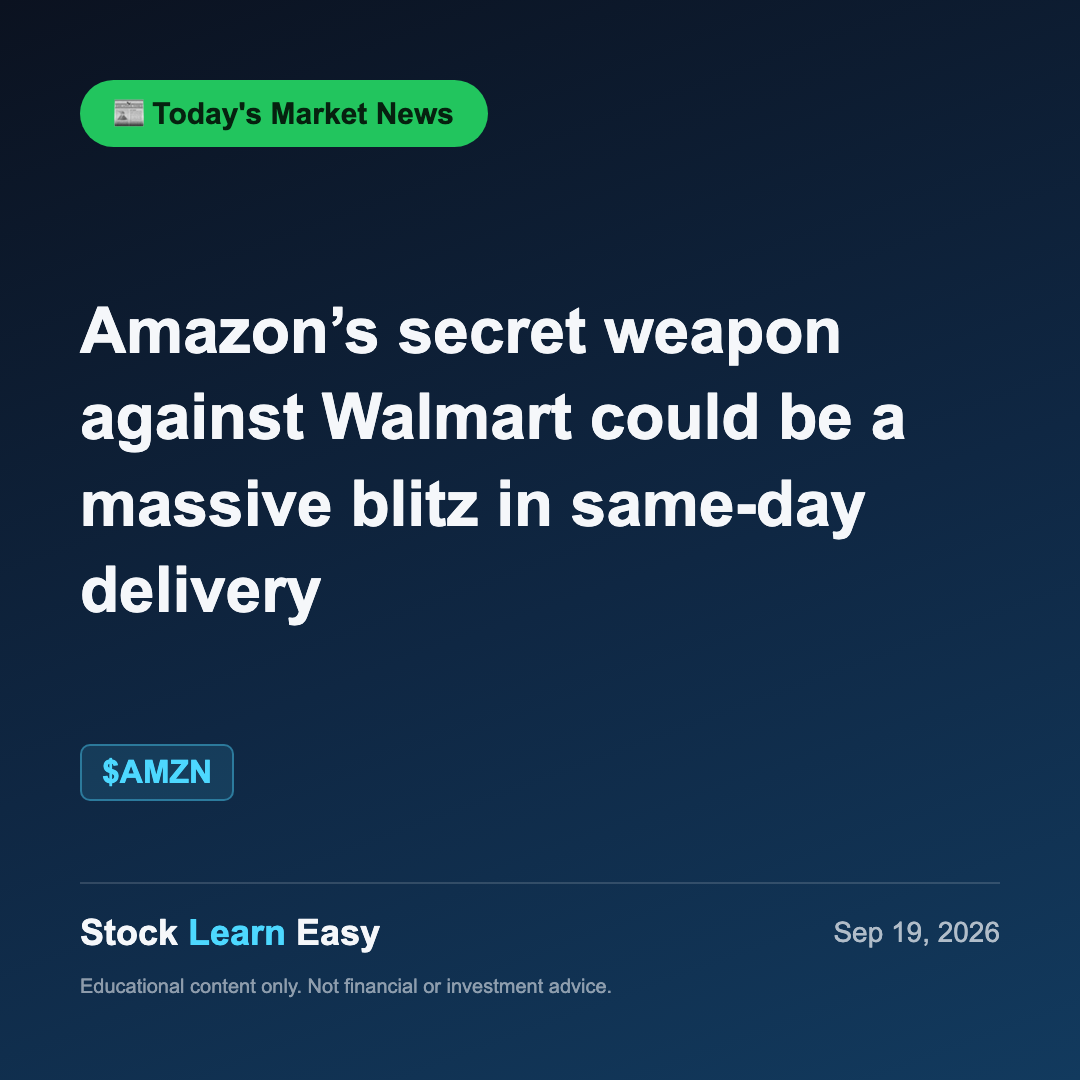
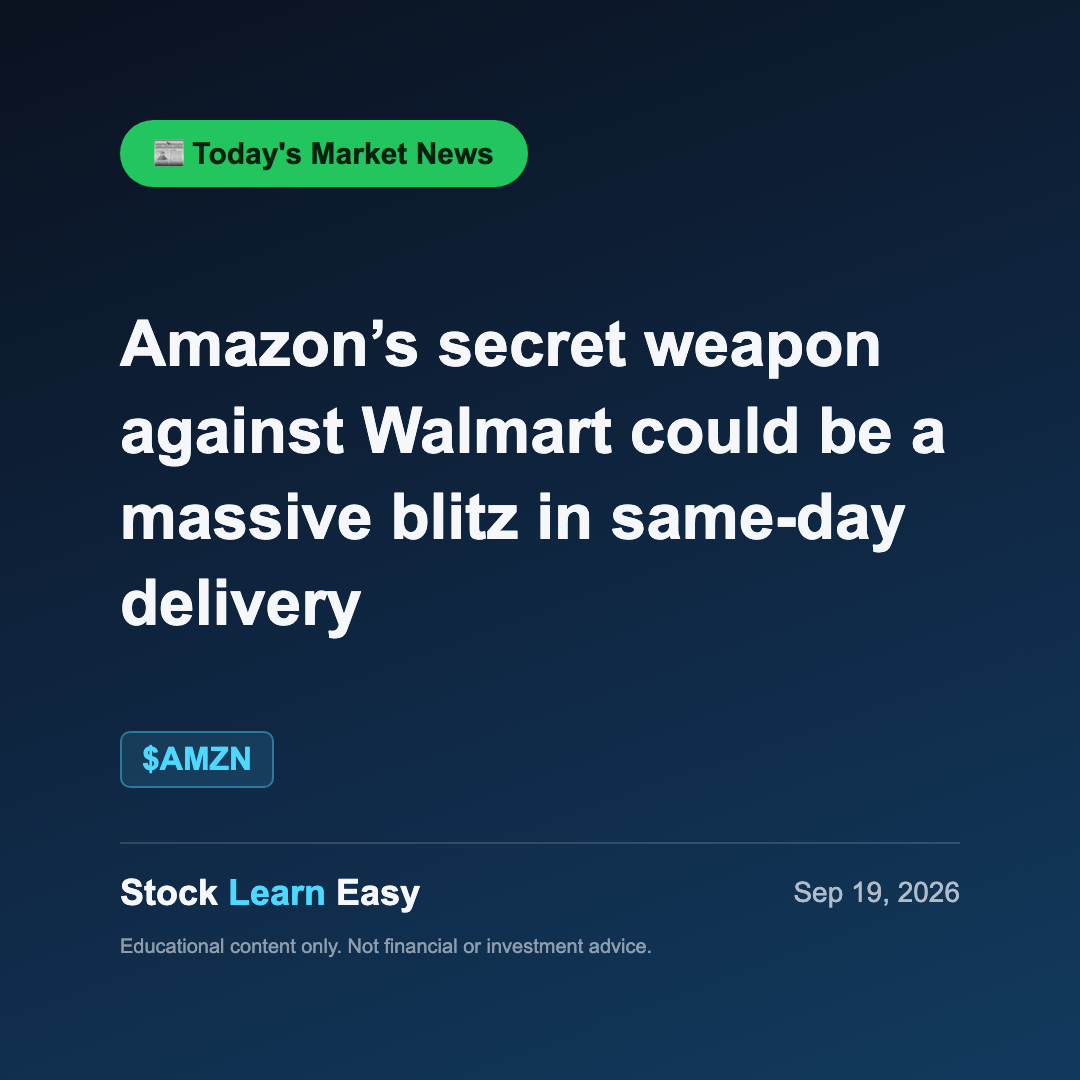
Widen card safe margin to 120px so grid-view crop doesn't clip text

diff --git a/generate.py b/generate.py
@@ -348,7 +348,7 @@ def render_card_html(category, when_utc, news=None, term=None, ticker=None):
     background: linear-gradient(160deg, #0b1220 0%, #0f2743 55%, #123a5e 100%);
     color:#f5f7fa;
     display:flex; flex-direction:column; justify-content:space-between;
-    padding:80px;
+    padding:120px;
   }}
   .tag {{
     display:inline-block;
